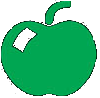
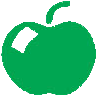
Texture Bombing and glyph bombing
http://http.developer.nvidia.com/GPUGems/gpugems_ch20.html
http://www.yaldex.com/open-gl/ch10lev1sec6.html

Changed region(s): [[0.0, 0.0, 0.99, 0.9796], [0.09, 0.2755, 0.39, 0.551], [0.15, 0.949, 0.18, 0.9796]]

diff --git a/notes/topics/opengl/qt/glyphs/mainwidget.cpp b/notes/topics/opengl/qt/glyphs/mainwidget.cpp
@@ -175,10 +175,10 @@ void MainWidget::initTextures()
     // Load textures
     glEnable(GL_TEXTURE_2D);
     
-    glyph_texture = bindTexture(QImage("apple.png"));
+    glyph_texture = bindTexture(QImage("10fig03.jpg"));
 
-    glTexParameteri(GL_TEXTURE_2D, GL_TEXTURE_WRAP_S, GL_CLAMP_TO_EDGE);
-    glTexParameteri(GL_TEXTURE_2D, GL_TEXTURE_WRAP_T, GL_CLAMP_TO_EDGE);
+    glTexParameteri(GL_TEXTURE_2D, GL_TEXTURE_WRAP_S, GL_CLAMP);
+    glTexParameteri(GL_TEXTURE_2D, GL_TEXTURE_WRAP_T, GL_CLAMP);
 
     // Set nearest filtering mode for texture minification
     glTexParameteri(GL_TEXTURE_2D, GL_TEXTURE_MIN_FILTER, GL_NEAREST);
@@ -261,14 +261,14 @@ void MainWidget::paintGL()
 
     program.setUniformValue("SpecularContribution", (GLfloat)0.2);
     program.setUniformValue("LightPosition", QVector3D(0, 2, 4));
-    program.setUniformValue("ScaleFactor", (GLfloat)2.);
+    program.setUniformValue("ScaleFactor", (GLfloat)10.);
     program.setUniformValue("ModelColor", QVector4D(1, 1, 1, 1));
-    program.setUniformValue("ColAdjust", (GLfloat)0.75);
-    program.setUniformValue("Percentage", (GLfloat)1.);
+    program.setUniformValue("ColAdjust", (GLfloat)0.42);
+    program.setUniformValue("Percentage", (GLfloat).75);
     program.setUniformValue("SamplesPerCell", (GLfloat)1.);
-    program.setUniformValue("R01", (GLfloat)0.29);
-    program.setUniformValue("RandomScale", false);
-    program.setUniformValue("RandomRotate", false);
+    program.setUniformValue("RO1", (GLfloat)0.29);
+    program.setUniformValue("RandomScale", true);
+    program.setUniformValue("RandomRotate", true);
 
     // Set model view projection transformations
     QMatrix4x4 model;
